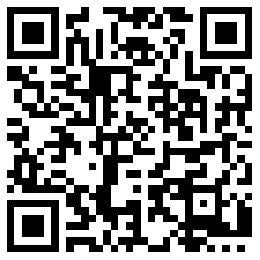
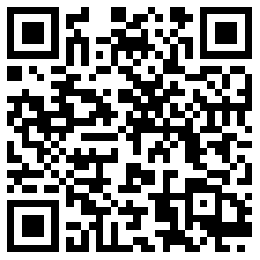
fix: android download link

diff --git a/src/sites/en/index.html b/src/sites/en/index.html
@@ -50,7 +50,7 @@
                                 </a>
                             </li>
                             <li>
-                                <a href="https://neoline.oss-cn-hongkong.aliyuncs.com/downloads/NeoLine.apk">
+                                <a href="https://images-neoline.oss-cn-hangzhou.aliyuncs.com/downloads/NeoLine.apk">
                                     <img src="/assets/images/android.png" alt="andriod">
                                     <div class="small-font">
                                         Get Android (.APK)

diff --git a/src/sites/zh/index.html b/src/sites/zh/index.html
@@ -51,7 +51,7 @@
                                 </a>
                             </li>
                             <li>
-                                <a href="https://neoline.oss-cn-hongkong.aliyuncs.com/downloads/NeoLine.apk">
+                                <a href="https://images-neoline.oss-cn-hangzhou.aliyuncs.com/downloads/NeoLine.apk">
                                     <img src="/assets/images/android.png" alt="andriod">
                                     <div>
                                         下载安装包

diff --git a/src/scripts/index.js b/src/scripts/index.js
@@ -4,7 +4,7 @@ import * as $ from 'jquery';
 let assetLen = 3;
 let assetIndex = 1;
 let android_google = 'https://play.google.com/store/apps/details?id=com.neoline.app';
-let android_package = 'https://neoline.oss-cn-hongkong.aliyuncs.com/downloads/NeoLine.apk';
+let android_package = 'https://images-neoline.oss-cn-hangzhou.aliyuncs.com/downloads/NeoLine.apk';
 let ios_store = 'https://itunes.apple.com/cn/app/id1484779135?mt=8';
 let ios_testflight = 'https://testflight.apple.com/join/9MloO2jC';
 
